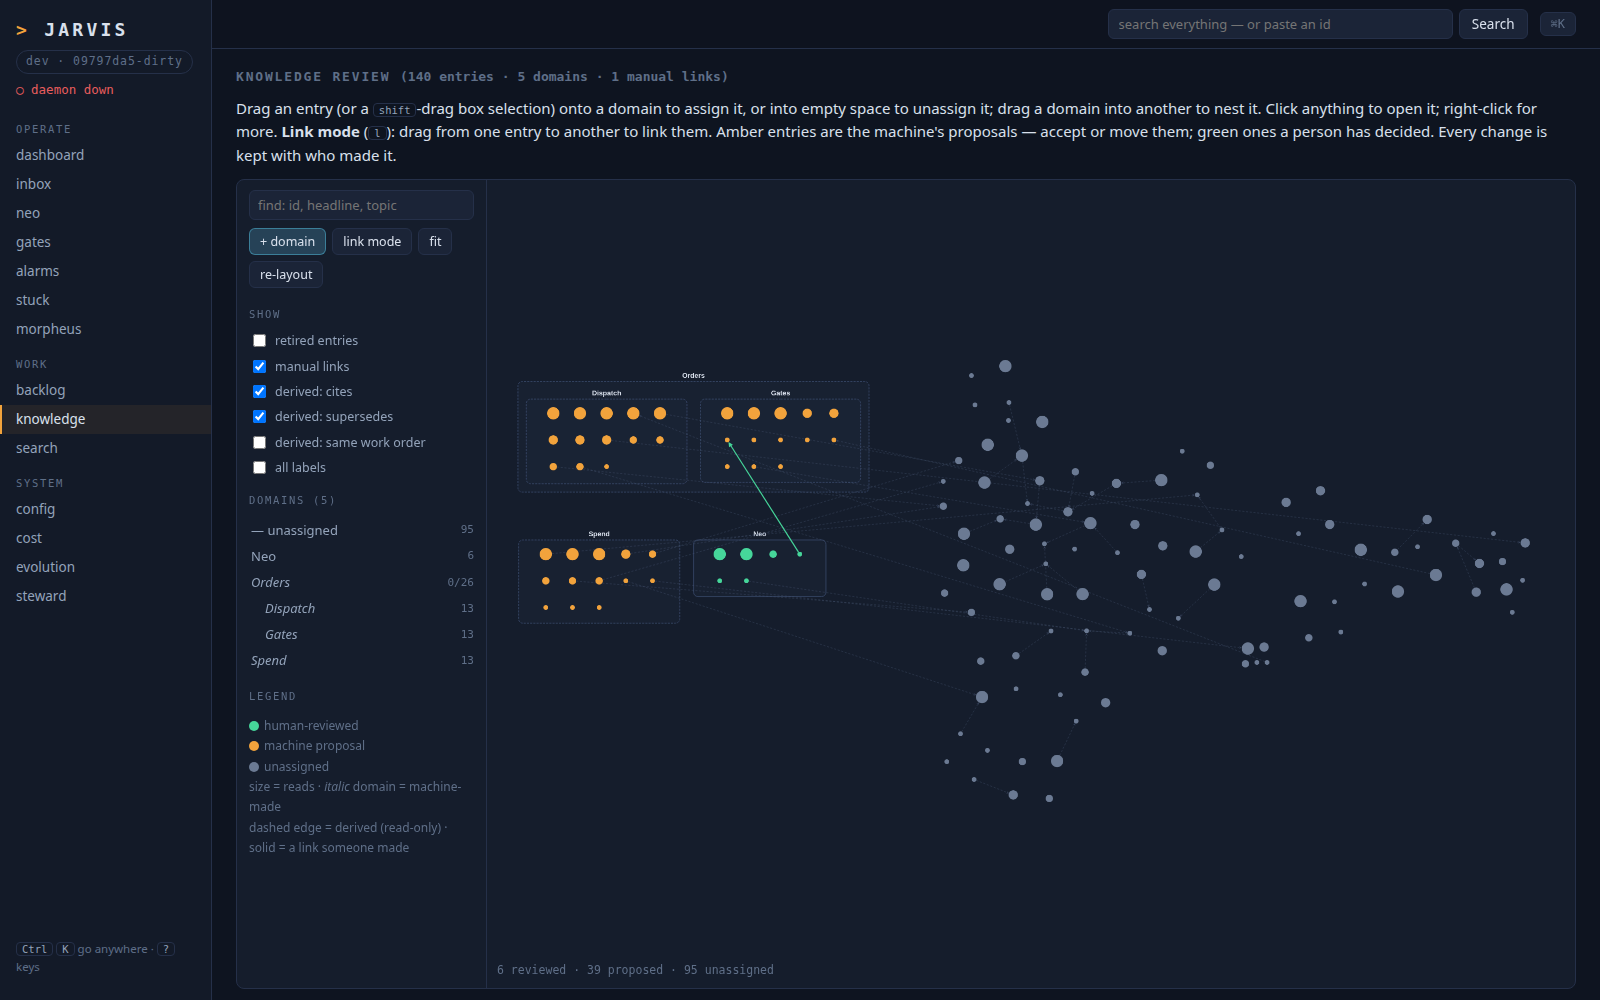
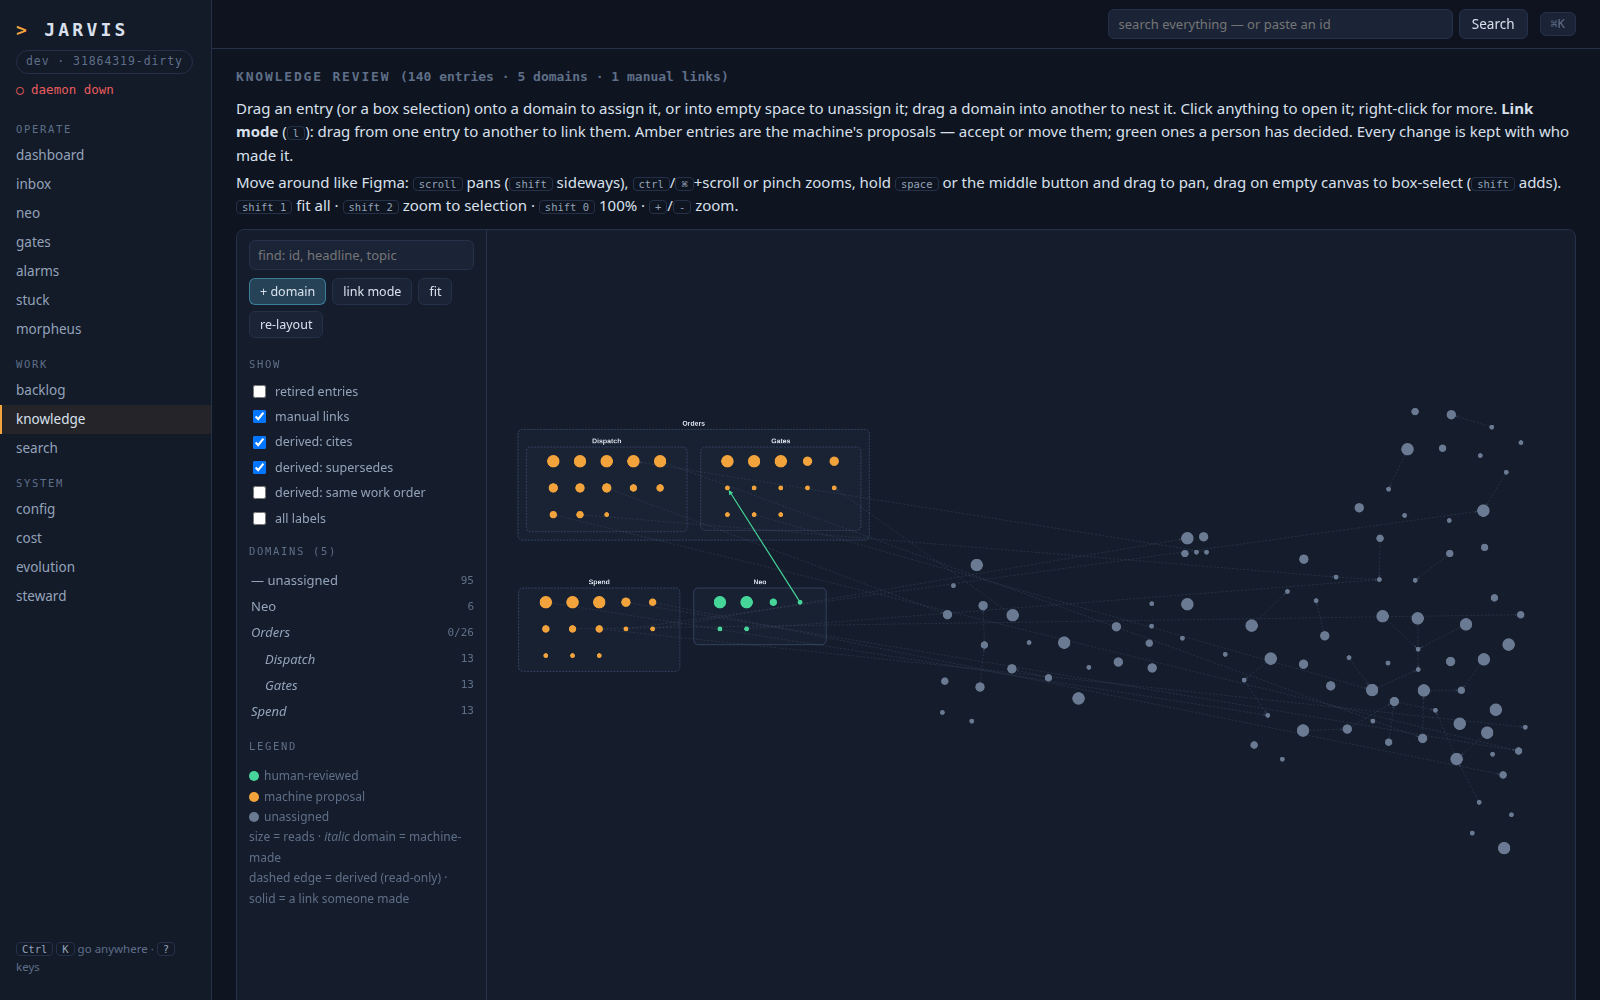
Knowledge review: Figma-style navigation
Scroll pans (shift = sideways), ctrl/cmd+scroll and pinch zoom at the pointer,
space+drag and middle-drag pan, a drag on empty canvas box-selects with no
modifier, shift+1/shift+2/shift+0 and +/- for the view. The context menu now
rides the native contextmenu event plus hover tracking instead of cytoscape's
cxttap, which never opened on Linux.

Claude-Session: https://claude.ai/code/session_01EmWS9zj77b8JafoNYc29vA

diff --git a/src/jarvis/ui/templates/knowledge_review.html b/src/jarvis/ui/templates/knowledge_review.html
@@ -79,11 +79,19 @@
 <h2 style="margin-top: 18px">Knowledge review
   <span class="sub" id="kr-summary" style="text-transform: none; letter-spacing: 0"></span></h2>
 <p class="sub" style="margin: 0">
-  Drag an entry (or a <kbd class="kbd">shift</kbd>-drag box selection) onto a domain to assign
-  it, or into empty space to unassign it; drag a domain into another to nest it. Click
-  anything to open it; right-click for more. <b>Link mode</b> (<kbd class="kbd">l</kbd>):
-  drag from one entry to another to link them. Amber entries are the machine's proposals —
-  accept or move them; green ones a person has decided. Every change is kept with who made it.
+  Drag an entry (or a box selection) onto a domain to assign it, or into empty space to
+  unassign it; drag a domain into another to nest it. Click anything to open it; right-click
+  for more. <b>Link mode</b> (<kbd class="kbd">l</kbd>): drag from one entry to another to
+  link them. Amber entries are the machine's proposals — accept or move them; green ones a
+  person has decided. Every change is kept with who made it.
+</p>
+<p class="sub" style="margin: 4px 0 0">
+  Move around like Figma: <kbd class="kbd">scroll</kbd> pans (<kbd class="kbd">shift</kbd> sideways),
+  <kbd class="kbd">ctrl</kbd>/<kbd class="kbd">⌘</kbd>+scroll or pinch zooms, hold
+  <kbd class="kbd">space</kbd> or the middle button and drag to pan, drag on empty canvas to
+  box-select (<kbd class="kbd">shift</kbd> adds). <kbd class="kbd">shift 1</kbd> fit all ·
+  <kbd class="kbd">shift 2</kbd> zoom to selection · <kbd class="kbd">shift 0</kbd> 100% ·
+  <kbd class="kbd">+</kbd>/<kbd class="kbd">-</kbd> zoom.
 </p>
 
 <div class="kr" id="kr" data-rels="{{ link_rels|join(',') }}">
@@ -248,6 +256,10 @@ window._ = window._ || {
 
   var cy = cytoscape({
     container: $('cy'),
+    // Figma-style navigation is ours (see "-- navigation"): with cytoscape's own panning
+    // and zooming off, a drag on empty canvas box-selects with no modifier.
+    userPanningEnabled: false,
+    userZoomingEnabled: false,
     boxSelectionEnabled: true,
     textureOnViewport: true,
     hideEdgesOnViewport: true,
@@ -821,10 +833,21 @@ window._ = window._ || {
     mode('click the entry to link ' + src + ' to (Esc to cancel)');
   }
 
-  cy.on('cxttap', function (e) {
-    var t = e.target, o = e.originalEvent, x = o.clientX, y = o.clientY;
+  // The context menu rides the browser's own `contextmenu` event, not cytoscape's
+  // `cxttap`: on Linux the native event fires on mouse DOWN, and the two orders fought.
+  // What is under the pointer is whatever cytoscape last reported hovering.
+  var hovered = null;
+  cy.on('mouseover', 'node, edge', function (e) { hovered = e.target; });
+  cy.on('mouseout', 'node, edge', function (e) { if (hovered === e.target) hovered = null; });
+  $('cy').addEventListener('contextmenu', function (e) {
+    e.preventDefault();
+    var r = $('cy').getBoundingClientRect(), pan = cy.pan(), z = cy.zoom();
+    contextMenu(hovered && hovered.inside() ? hovered : cy, e.clientX, e.clientY,
+                { x: (e.clientX - r.left - pan.x) / z, y: (e.clientY - r.top - pan.y) / z });
+  });
+
+  function contextMenu(t, x, y, at) {
     if (t === cy) {
-      var at = e.position;
       menu(x, y, '', [
         { label: '+ new domain here', run: function () { newDomain('', null, at); } },
         { label: 'fit to screen', run: function () { cy.fit(undefined, 30); } },
@@ -848,8 +871,62 @@ window._ = window._ || {
     } else if (t.isEdge()) {
       openEdge(t);
     }
+  }
+
+  // -- navigation, Figma's way: scroll pans, ctrl/⌘+scroll (and a trackpad pinch, which
+  // arrives as ctrl+wheel) zooms at the pointer, space+drag or middle-drag pans.
+
+  var view = $('cy'), nav = { space: false, pan: null };
+  function zoomAt(factor, clientX, clientY) {
+    var r = view.getBoundingClientRect();
+    var level = Math.max(cy.minZoom(), Math.min(cy.maxZoom(), cy.zoom() * factor));
+    cy.zoom({ level: level, renderedPosition: {
+      x: clientX === undefined ? r.width / 2 : clientX - r.left,
+      y: clientY === undefined ? r.height / 2 : clientY - r.top } });
+  }
+  view.addEventListener('wheel', function (e) {
+    e.preventDefault();
+    var unit = e.deltaMode === 1 ? 16 : e.deltaMode === 2 ? view.clientHeight : 1;
+    var dx = e.deltaX * unit, dy = e.deltaY * unit;
+    // One notch of a mouse wheel (~100px) zooms ~18%; a pinch sends many small deltas
+    if (e.ctrlKey || e.metaKey) { zoomAt(Math.exp(-dy * 0.002), e.clientX, e.clientY); return; }
+    if (e.shiftKey && !dx) { dx = dy; dy = 0; }
+    cy.panBy({ x: -dx, y: -dy });
+  }, { passive: false });
+  // Capture phase on the container runs before cytoscape's own listeners, so a pan
+  // gesture never also starts a node drag or a box selection.
+  view.addEventListener('mousedown', function (e) {
+    if (!(e.button === 1 || (e.button === 0 && nav.space))) return;
+    e.preventDefault(); e.stopPropagation();
+    nav.pan = { x: e.clientX, y: e.clientY };
+    view.style.cursor = 'grabbing';
+  }, true);
+  window.addEventListener('mousemove', function (e) {
+    if (!nav.pan) return;
+    cy.panBy({ x: e.clientX - nav.pan.x, y: e.clientY - nav.pan.y });
+    nav.pan = { x: e.clientX, y: e.clientY };
+  }, true);
+  window.addEventListener('mouseup', function () {
+    if (!nav.pan) return;
+    nav.pan = null;
+    view.style.cursor = nav.space ? 'grab' : '';
+  }, true);
+  view.addEventListener('auxclick', function (e) { if (e.button === 1) e.preventDefault(); });
+  function typingNow() {
+    var el = document.activeElement;
+    return el && (/^(INPUT|TEXTAREA|SELECT)$/.test(el.tagName) || el.isContentEditable);
+  }
+  document.addEventListener('keydown', function (e) {
+    if (e.code !== 'Space' || typingNow()) return;
+    e.preventDefault();  // the page must not scroll
+    if (!nav.space) { nav.space = true; if (!nav.pan) view.style.cursor = 'grab'; }
   });
-  $('cy').addEventListener('contextmenu', function (e) { e.preventDefault(); });
+  document.addEventListener('keyup', function (e) {
+    if (e.code !== 'Space') return;
+    nav.space = false;
+    if (!nav.pan) view.style.cursor = '';
+  });
+  window.addEventListener('blur', function () { nav.space = false; nav.pan = null; view.style.cursor = ''; });
 
   // -- taps: open what was clicked
 
@@ -1027,7 +1104,19 @@ window._ = window._ || {
       if (!typing) closePanel();
       return;
     }
-    if (typing || e.ctrlKey || e.metaKey || e.altKey) return;
+    if (typing || e.altKey) return;
+    // Figma's view keys: shift+1 fit, shift+2 selection, shift+0 100%, +/- (or ctrl/⌘ +/-)
+    if (e.shiftKey && e.code === 'Digit1') { e.preventDefault(); cy.fit(undefined, 30); return; }
+    if (e.shiftKey && e.code === 'Digit2') {
+      e.preventDefault();
+      var sel = cy.$(':selected');
+      if (sel.length) cy.fit(sel, 60);
+      return;
+    }
+    if (e.shiftKey && e.code === 'Digit0') { e.preventDefault(); zoomAt(1 / cy.zoom()); return; }
+    if (e.key === '+' || e.key === '=') { e.preventDefault(); zoomAt(1.25); return; }
+    if (e.key === '-' || e.key === '_') { e.preventDefault(); zoomAt(0.8); return; }
+    if (e.ctrlKey || e.metaKey) return;
     if (e.key === 'l') setLinkMode(!state.linkMode);
   });
 
